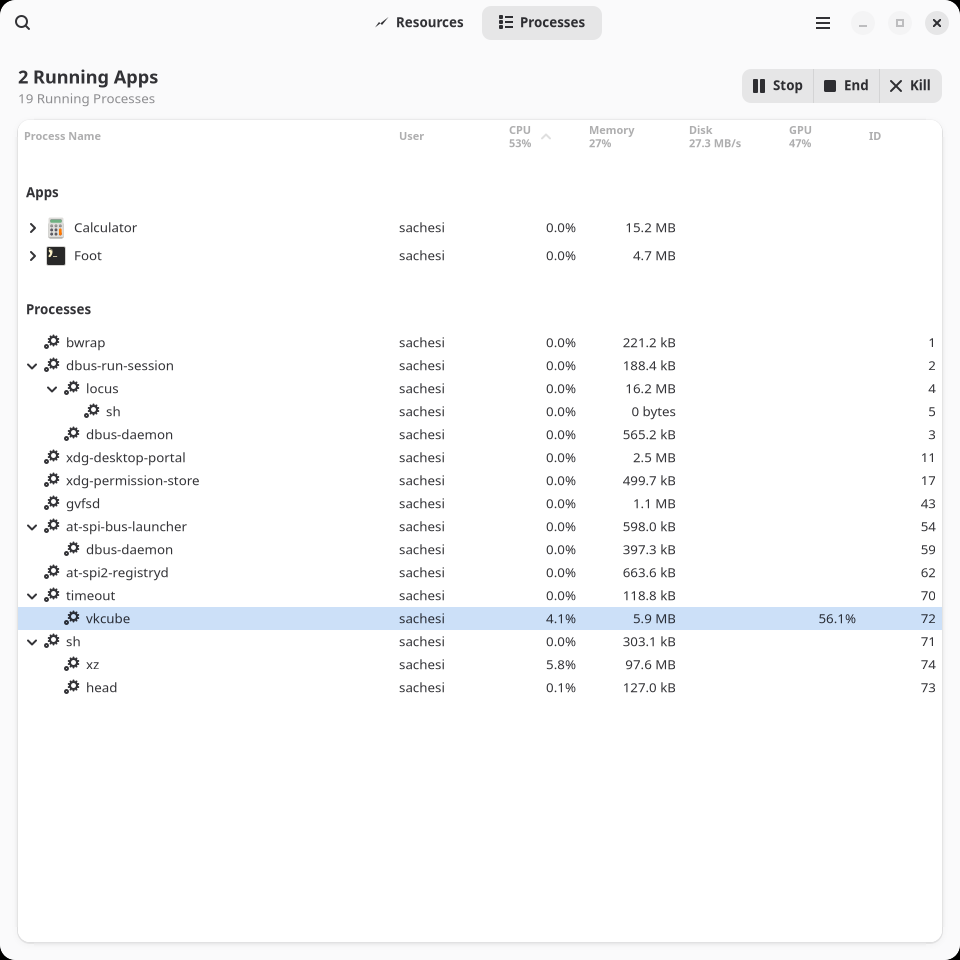
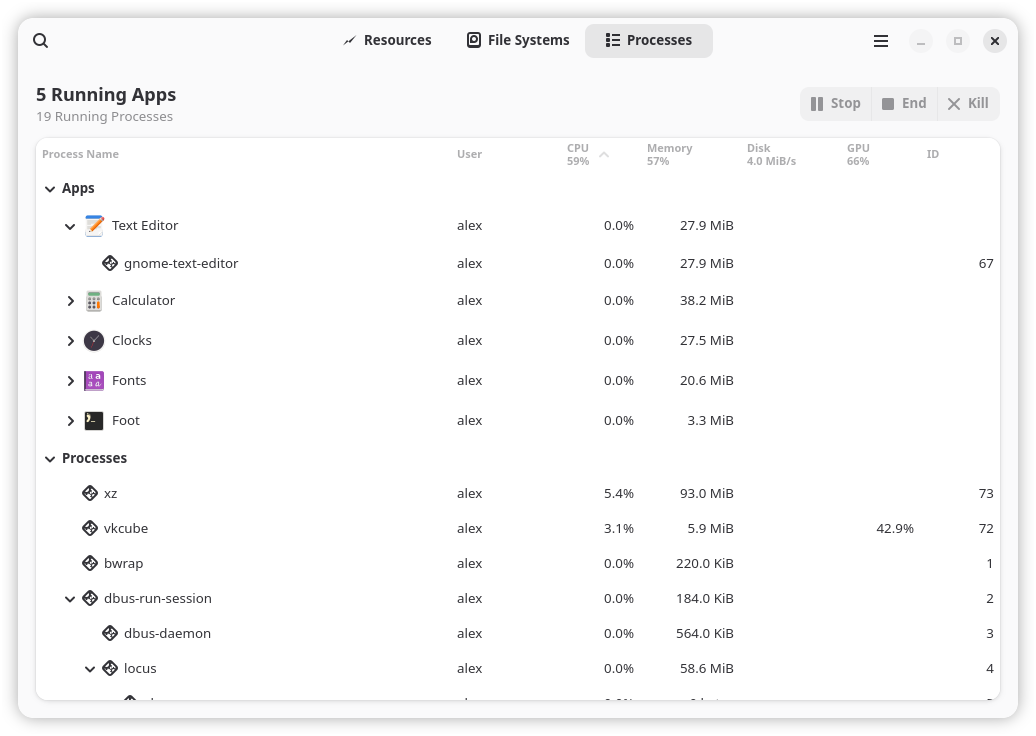
docs: retake the screenshots in a demo session and add one of the GPUs

diff --git a/data/screenshots/home/Documents/Garden plan.md b/data/screenshots/home/Documents/Garden plan.md
@@ -1,0 +1,13 @@
+# Garden plan
+
+## Spring
+
+- Sow tomatoes and peppers indoors in early March
+- Turn the compost and spread it over the raised beds
+- Plant garlic cloves along the south fence
+
+## Summer
+
+- Water the beds early in the morning
+- Pick courgettes while they are small
+- Save seeds from the best bean plants
